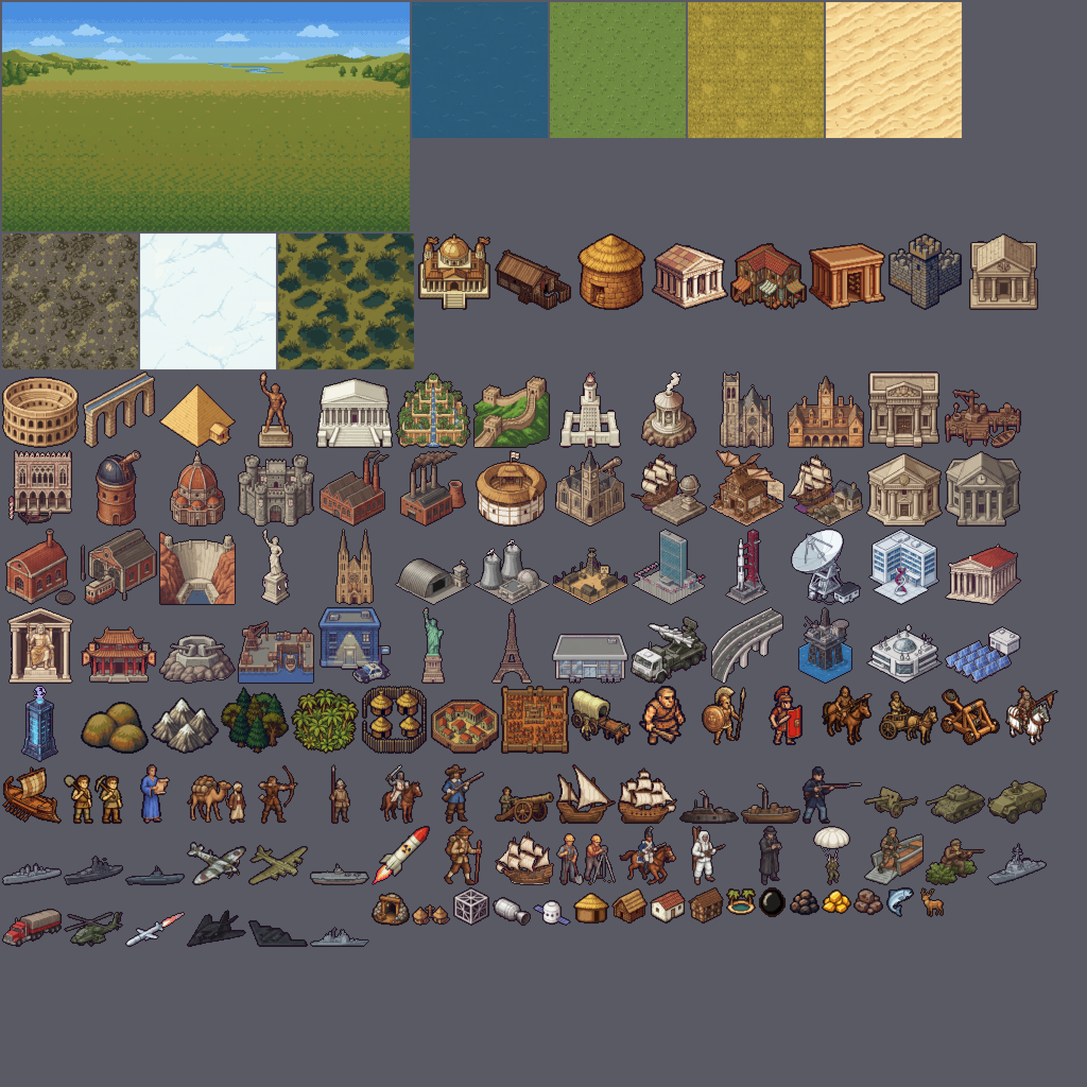
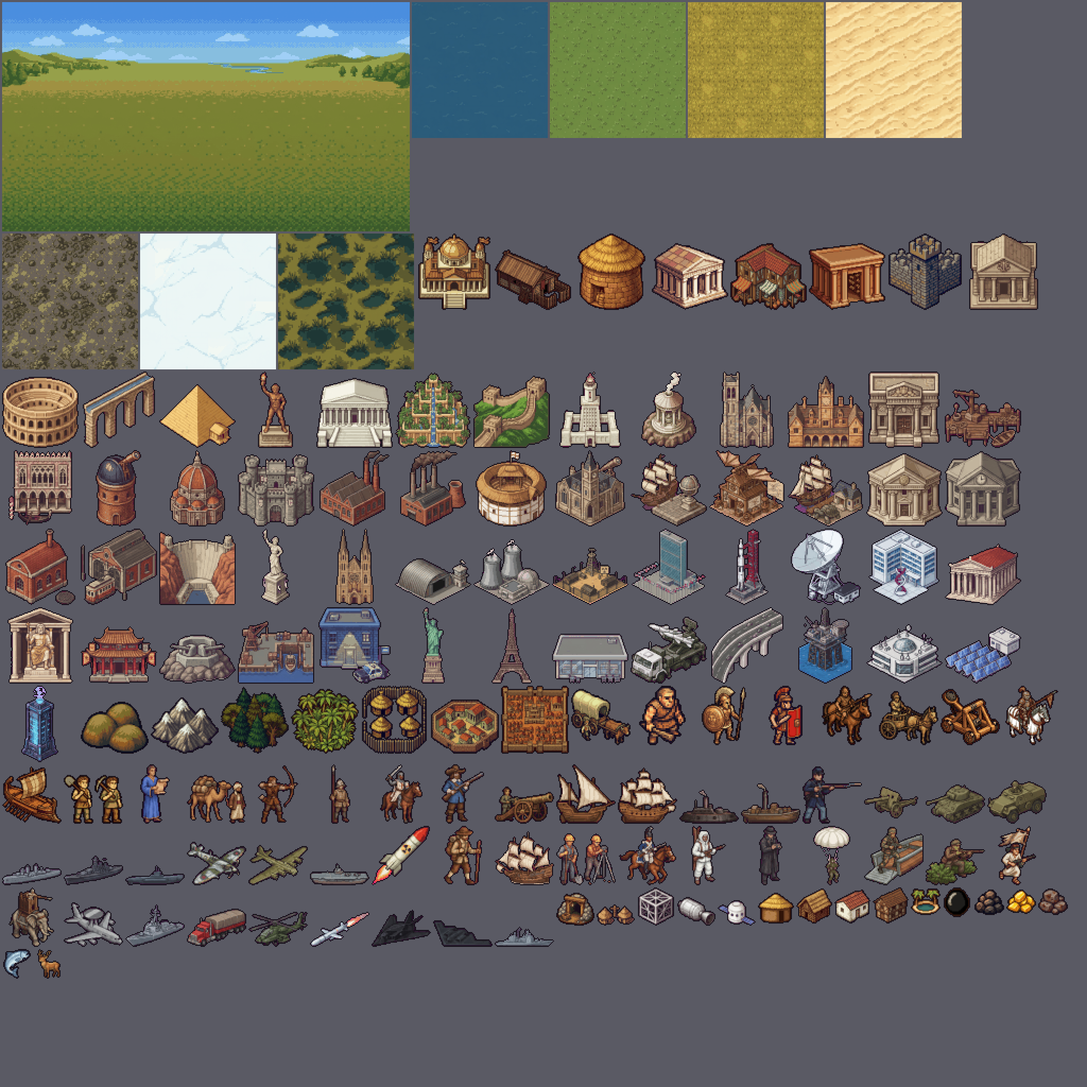
Етап 9: Фундаменталізм і Фанатики (Civ II)
Новий устрій: невдоволених нема, десятина з храму, колізею й собору,
наука вдвічі менша. Фанатики будуються лише за ним і не потребують
утримання. Спрайти Фанатиків, а наперед Слонів і AWACS (1 запит
Flash-Lite, $0.034). 12 світів: космос до 2100 в 9 з 12, загиблих 0.

Changed region(s): [[0.0, 0.75, 1.0, 0.9062]]

diff --git a/src/core/constants.ts b/src/core/constants.ts
@@ -286,6 +286,11 @@ export const UNIT_CONFIGS: Record<UnitTypeKey, UnitConfig> = {
     allTerrainAsRoad: true,
     prereqTech: 'guerrilla_warfare', descriptionUa: 'Будь-який рельєф — як дорога. Коли ворог бере ваше місто, довкола нього самі з\'являються партизани.',
   },
+  [UnitTypeKey.Fanatics]: {
+    key: UnitTypeKey.Fanatics, name: 'Fanatics', nameUa: 'Фанатики', attack: 4, defense: 4, moves: 1, cost: 20, domain: 'land',
+    requiresGovernment: 'fundamentalism',
+    prereqTech: 'fundamentalism', descriptionUa: 'Лише за Фундаменталізму: дешеві й без утримання.',
+  },
   [UnitTypeKey.Destroyer]: {
     key: UnitTypeKey.Destroyer, name: 'Destroyer', nameUa: 'Есмінець', attack: 4, defense: 4, moves: 8, cost: 60, domain: 'sea', vision: 3,
     prereqTech: 'combustion', descriptionUa: 'Найшвидший корабель: 8 клітинок за хід, бачить на 3 клітинки.',
@@ -670,6 +675,7 @@ export const TECH_TREE: Record<string, Tech> = {
   industrialization: { id: 'industrialization', nameUa: 'Індустріалізація', era: 3, prereqs: ['railroad', 'banking'], descriptionUa: 'Фабрики, димарі — і смог над містами.' },
   electricity: { id: 'electricity', nameUa: 'Електрика', era: 3, prereqs: ['metallurgy', 'magnetism'], descriptionUa: 'Струм у дротах.' },
   leadership: { id: 'leadership', nameUa: 'Лідерство', era: 3, prereqs: ['chivalry', 'gunpowder'], descriptionUa: 'Офіцери ведуть у бій кінноту з мушкетами.' },
+  fundamentalism: { id: 'fundamentalism', nameUa: 'Фундаменталізм', era: 4, prereqs: ['monotheism', 'conscription'], descriptionUa: 'Віра як закон: покора замість свобод.' },
   conscription: { id: 'conscription', nameUa: 'Загальний призов', era: 3, prereqs: ['democracy', 'metallurgy'], descriptionUa: 'Армія з громадян.' },
   // Сучасність I: війни XX століття
   tactics: { id: 'tactics', nameUa: 'Тактика', era: 4, prereqs: ['conscription', 'leadership'], descriptionUa: 'Маневр і рельєф як зброя: гірська піхота.' },
@@ -741,6 +747,11 @@ export const GOVERNMENTS: Record<GovernmentKey, GovernmentConfig> = {
   communism: {
     key: 'communism', nameUa: 'Комунізм', prereqTech: 'communism', maxRate: 8, corruptionPerTile: 0, flatCorruption: 0.1, tilePenalty: false, tradeBonus: false, martialLaw: 3, freeUnits: 3, settlerFood: 1,
     descriptionUa: 'Корупція однакова в усіх містах (10%), хоч як далеко від столиці. Військові в місті заспокоюють до 3 невдоволених. Ставки до 80%.',
+  },
+  fundamentalism: {
+    key: 'fundamentalism', nameUa: 'Фундаменталізм', prereqTech: 'fundamentalism', maxRate: 8, corruptionPerTile: 0.02, tilePenalty: false, tradeBonus: false, martialLaw: 0, freeUnits: 3, settlerFood: 1,
+    noUnhappy: true, scienceFactor: 0.5, tithes: true,
+    descriptionUa: 'Невдоволених нема зовсім. Храм, колізей і собор замість спокою дають золото (десятина). Наука вдвічі менша. Лише за цього устрою — Фанатики без утримання. Ставки до 80%.',
   },
   democracy: {
     key: 'democracy', nameUa: 'Демократія', prereqTech: 'democracy', maxRate: 9, corruptionPerTile: 0, tilePenalty: false, tradeBonus: true, martialLaw: 0, freeUnits: 0, settlerFood: 2, abroadUnhappy: 2,

diff --git a/src/core/ai.ts b/src/core/ai.ts
@@ -25,7 +25,7 @@ const RESEARCH_ORDER = [
   'atomic_theory', 'flight', 'nuclear_fission', 'nuclear_power', 'radio', 'advanced_flight', 'rocketry',
   'computers', 'space_flight', 'robotics', 'plastics', 'superconductor',
   // Гірська піхота й шпигуни — після космічних технологій: кожна зайва технологія дорожчає наступні, і космос не встигав до 2100
-  'tactics', 'espionage', 'refrigeration', 'miniaturization', 'combined_arms', 'amphibious_warfare', 'guerrilla_warfare', 'genetic_engineering', 'environmentalism', 'stealth',
+  'tactics', 'espionage', 'refrigeration', 'miniaturization', 'combined_arms', 'amphibious_warfare', 'guerrilla_warfare', 'genetic_engineering', 'environmentalism', 'stealth', 'fundamentalism',
 ];
 
 /** Корабель, який AI вважає готовим до старту: 3 двигуни, 3 модулі, 6 каркасів (політ 14 р., успіх 100%). */
@@ -125,7 +125,7 @@ export class AiController {
   private chooseGovernment(player: Player): void {
     if (player.government === 'anarchy') return;
     const warlike = (player.hostileFromTurn ?? Infinity) <= 60;
-    const wanted: GovernmentKey[] = warlike ? ['communism', 'monarchy'] : ['democracy', 'republic', 'monarchy'];
+    const wanted: GovernmentKey[] = warlike ? ['fundamentalism', 'communism', 'monarchy'] : ['democracy', 'republic', 'monarchy'];
     const target = wanted.find((g) => g === player.government || this.world.canAdopt(player.id, g));
     if (target && target !== player.government) this.world.startRevolution(player.id, target);
   }
@@ -382,6 +382,7 @@ export class AiController {
   private bestUnit(player: Player, by: 'attack' | 'defense'): UnitTypeKey {
     const units = Object.values(UNIT_CONFIGS).filter(
       (u) => u.domain === 'land' && u.attack > 0 && (!u.prereqTech || player.knownTechs.includes(u.prereqTech))
+        && (!u.requiresGovernment || u.requiresGovernment === player.government)
     );
     const pool = units.filter((u) => (by === 'attack' ? u.attack > u.defense : u.defense >= u.attack));
     const list = pool.length ? pool : units;

diff --git a/src/core/types.ts b/src/core/types.ts
@@ -98,6 +98,7 @@ export enum UnitTypeKey {
   Paratroopers = 'paratroopers',
   Marines = 'marines',
   Partisans = 'partisans',
+  Fanatics = 'fanatics',
   Destroyer = 'destroyer',
   Freight = 'freight',
   Helicopter = 'helicopter',
@@ -125,6 +126,8 @@ export interface UnitConfig {
   fuel?: number;
   /** Будь-який рельєф — як дорога (1/3 руху) */
   allTerrainAsRoad?: boolean;
+  /** Будується лише за цього устрою і тоді ж не потребує утримання (Фанатики) */
+  requiresGovernment?: GovernmentKey;
   /** Радіус огляду (типово 2) */
   vision?: number;
   /** Десант: зі свого міста з повним рухом — стрибок на клітинку за стільки клітинок */
@@ -281,7 +284,7 @@ export interface GameOver {
 }
 
 /** Державний устрій (Civ 1). Анархія — перехідний стан під час революції. */
-export type GovernmentKey = 'despotism' | 'monarchy' | 'republic' | 'democracy' | 'communism' | 'anarchy';
+export type GovernmentKey = 'despotism' | 'monarchy' | 'republic' | 'democracy' | 'communism' | 'fundamentalism' | 'anarchy';
 
 export interface GovernmentConfig {
   key: GovernmentKey;
@@ -305,6 +308,12 @@ export interface GovernmentConfig {
   settlerFood: number;
   /** Скільки невдоволених дає кожен військовий юніт за кордоном (Республіка 1, Демократія 2) */
   abroadUnhappy?: number;
+  /** Фундаменталізм (Civ II): невдоволених нема зовсім */
+  noUnhappy?: boolean;
+  /** Множник науки міст (Фундаменталізм — половина) */
+  scienceFactor?: number;
+  /** Десятина: храм, колізей і собор дають золото, скільки заспокоювали б */
+  tithes?: boolean;
   descriptionUa: string;
 }
 

diff --git a/src/core/city.ts b/src/core/city.ts
@@ -157,7 +157,7 @@ export class CityLogic {
     // Лабораторія (чи Інтернет у місті з університетом) — ще +50%
     if (has(BuildingTypeKey.University) && (has(BuildingTypeKey.ResearchLab) || env.ownerWonders.has(BuildingTypeKey.Internet))) sciBonus += 0.5;
     if (env.ownerWonders.has(BuildingTypeKey.Seti)) sciBonus += 0.5;
-    science = Math.floor(science * sciBonus);
+    science = Math.floor(science * sciBonus * (gov.scienceFactor ?? 1));
 
     // Щастя: серед працюючих перші 4 задоволені, решта невдоволені (артисти не бунтують)
     const citizens = city.size - entertainers;
@@ -175,8 +175,12 @@ export class CityLogic {
     // Жіноче виборче право — поліція: до 2 за будь-якого устрою
     const police = env.ownerWonders.has(BuildingTypeKey.WomensSuffrage) || has(BuildingTypeKey.PoliceStation) ? 2 : 0;
     calm += Math.min(env.garrison, Math.max(GOVERNMENTS[env.government].martialLaw, police));
-    // Театр Шекспіра: у місті немає невдоволених
-    if (has(BuildingTypeKey.Shakespeare)) calm += unhappy;
+    // Театр Шекспіра: у місті немає невдоволених; Фундаменталізм — так у кожному місті
+    if (has(BuildingTypeKey.Shakespeare) || gov.noUnhappy) calm += unhappy;
+    // Десятина: споруди віри й видовищ, яким нема кого заспокоювати, наповнюють скарбницю
+    if (gov.tithes) {
+      gold += (has(BuildingTypeKey.Temple) ? 2 : 0) + (has(BuildingTypeKey.Colosseum) ? 3 : 0) + (has(BuildingTypeKey.Cathedral) ? 3 : 0);
+    }
     const calmed = Math.min(unhappy, calm);
     unhappy -= calmed;
     content += calmed;

diff --git a/src/ui/city-dialog.ts b/src/ui/city-dialog.ts
@@ -61,6 +61,7 @@ export class CityDialog {
     const units = Object.values(UNIT_CONFIGS)
       .filter((u) => hasTech(u.prereqTech) && (u.domain !== 'sea' || coastal))
       .filter((u) => !u.requiresWonder || this.world.isWonderBuilt(u.requiresWonder))
+      .filter((u) => !u.requiresGovernment || u.requiresGovernment === this.world.players[city.playerId].government)
       // Застарілі ховаємо, але поточне виробництво лишаємо видимим
       .filter((u) => !isObsoleteUnit(u.key, known) || city.currentProduction.key === u.key)
       .map((u) => ({ isBuilding: false, key: u.key as string, name: u.nameUa, cost: u.cost, description: u.descriptionUa }));

diff --git a/src/core/world.ts b/src/core/world.ts
@@ -440,7 +440,9 @@ export class World {
     let abroad = 0;
     for (const u of this.units.values()) {
       if (u.homeCityId !== cityId) continue;
-      units++;
+      // Фанатики за Фундаменталізму — без утримання
+      const gov = UNIT_CONFIGS[u.type].requiresGovernment;
+      if (!(gov && this.players[u.playerId].government === gov)) units++;
       if (u.type === UnitTypeKey.Settlers) settlers++;
       // За кордоном (Civ 1): військовий поза своїми містами й далі за 3 клітинки від рідного
       const at = this.tiles[u.y][u.x].cityId;

diff --git a/src/ui/government-dialog.ts b/src/ui/government-dialog.ts
@@ -5,7 +5,7 @@ import { World } from '../core/world';
 import { GovernmentKey, BuildingTypeKey } from '../core/types';
 import { GOVERNMENTS, TECH_TREE } from '../core/constants';
 
-const CHOICES: GovernmentKey[] = ['despotism', 'monarchy', 'communism', 'republic', 'democracy'];
+const CHOICES: GovernmentKey[] = ['despotism', 'monarchy', 'communism', 'fundamentalism', 'republic', 'democracy'];
 
 export class GovernmentDialog {
   private overlay: HTMLElement;

diff --git a/docs/ai/ROADMAP.md b/docs/ai/ROADMAP.md
@@ -213,7 +213,7 @@
 Етап 8 закрив юніти, споруди й чудеса Civ II. Тут — механіки й решта вмісту, за тим самим порядком (дані, правила, AI, UI, тест, симуляції).
 - [x] **Торгові маршрути** (Civ 1): караван чи вантажівка в чужому місті (без війни) або в своєму за 10+ клітинок від рідного — разово золото й наука (`(відстань+10)×(торгівля обох)/24`), назавжди обом містам `(торгівля обох+4)/8` торгівлі; між своїми — навпіл. До 3 маршрутів, слабший замінюється кращим; з ворогом маршрут стоїть. Кнопка «🐪 Маршрут [T]», чуже місто — просто зайти; маршрути в екрані міста. AI везе каравани, коли чуда нема, і тримає їх до третини від кількості міст. 12 світів: космос до 2100 в 10 з 12 (без маршрутів на тих самих зернах — 8 з 12), загиблих 0.
 - [x] **Капіталізація** (Civ II Coinage, техн. Корпорація): «💰 Капіталізація» в списку виробництва — щити щоходу йдуть у золото, запас щитів не чіпається, купити не можна. AI бере її, коли будувати вже нічого (замість зайвих юнітів на утриманні): на кінець гри — 0–28 міст із ~50. 12 світів: космос до 2100 в 9 з 12, загиблих 0.
-- [ ] **Фундаменталізм** (Civ II): устрій без невдоволених, наука −50%, Фанатики (дешеві, без утримання).
+- [x] **Фундаменталізм** (Civ II, нова техн.: Монотеїзм + Загальний призов): невдоволених нема, храм/колізей/собор дають десятину золотом (2/3/3), наука вдвічі менша, ставки до 80%. **Фанатики** (А4 З4, 20 щитів) — лише за цього устрою й без утримання. Войовничі AI обирають його першим, але техн. стоїть після космічних (інакше гонка не встигає) — тож AI доходить до нього рідко (3 з 12 світів), Фанатиків не будує: Мотопіхота й Танки на той час сильніші. 12 світів: космос до 2100 в 9 з 12, загиблих 0.
 - [ ] **Слони й AWACS**: Слони (Політеїзм, А4 З1 Р1) — ранній удар; AWACS — огляд 8 клітинок з неба.
 - [ ] **Поради радника для пізньої гри** (зараз лише до 120-го ходу): космос, забруднення, маршрути, ООН.
 - [ ] **Зони контролю** (ZOC, Civ 1): не можна йти з клітинки поруч із ворогом на іншу клітинку поруч із ворогом.

diff --git a/docs/ai/NIGHT_LOG.md b/docs/ai/NIGHT_LOG.md
@@ -189,7 +189,7 @@ Gemini: 2 запити × $0.034 = $0.068 (спрайти й для наступ
 Далі (ідеї для Етапу 9, коли Олексій погодить): підказки радника для пізньої гри (зараз лише до 120-го ходу), ZOC, корисніше заняття каравану/вантажівці у фінальній фазі (торгові маршрути як у Civ 1), живий прогін Етапу 8 у браузері.
 
 ## 2026-10-22 20:45–21:30 — Етап 9: торгові маршрути, Капіталізація
-Ліміти: 5 год — 48% → ~75%, тиждень — 66% → ~70%. Gemini: 0 запитів (нових спрайтів не треба). Підсумок: **$0.14** з $3.
+Ліміти: 5 год — 48% → 66%, тиждень — 66% → 69%. Gemini: 0 запитів. Підсумок: **$0.14** з $3.
 
 Етап 8 було закрито, тож додав у ROADMAP «Етап 9 — Розширення II»: механіки Civ 1 / Civ II, яких ще бракує (маршрути, Капіталізація, Фундаменталізм і Фанатики, Слони й AWACS, поради радника для пізньої гри, ZOC).
 
@@ -201,3 +201,14 @@ Gemini: 2 запити × $0.034 = $0.068 (спрайти й для наступ
 Не перевірено в браузері (preview `civ-dev` відхилено): кнопка [T], рядок маршрутів і «🛡→💰» в екрані міста.
 
 Далі: Фундаменталізм + Фанатики, потім Слони й AWACS (на них потрібна одна сітка спрайтів), поради радника для пізньої гри, ZOC.
+
+### 21:30–21:55 — Етап 9: Фундаменталізм і Фанатики
+Ліміти: 5 год — 66% → 72%, тиждень — 69% → 70%. Gemini: 1 запит × $0.034 (Фанатики, а наперед Слони й AWACS). Підсумок: **$0.17** з $3.
+Сітка вийшла одним рядком із трьох спрайтів, а не 3×3; process-sprites нарізав чисто, ліній і підписів нема.
+
+- **Фундаменталізм** (устрій, нова техн. з Монотеїзму й Загального призову): невдоволених нема, десятина з храму/колізею/собору, наука ×0.5. **Фанатики** — лише за ним, без утримання (`UnitConfig.requiresGovernment`).
+- Тест правил (7 пунктів), 12 світів: космос до 2100 в 9 з 12, загиблих 0. AI доходить до Фундаменталізму в 3 світах з 12 і лише під кінець; Фанатиків не будує (Мотопіхота сильніша) — це вибір для людини.
+
+Не перевірено в браузері: Фундаменталізм у вікні революції, Фанатики в списку виробництва.
+
+Далі: Слони й AWACS (спрайти вже є), поради радника для пізньої гри, ZOC.

diff --git a/docs/ai/PROJECT_MAP.md b/docs/ai/PROJECT_MAP.md
@@ -61,6 +61,7 @@
   Нові технології Етапу 8 стоять у `RESEARCH_ORDER` після космічних: кожна зайва технологія дорожчає наступні, і AI не встигав до 2100.
 - Перетворення рельєфу інженерами (`TRANSFORM` у `terraform.ts`, робота `transform`, клавіша O): `World.terrainChanges` → `MapRenderer.rebakeTerrain` перепікає шматки 16×16 (`TerrainBaker.rebake`). Без рендерера (симуляції) список лише росте — не страшно.
 - Торгові маршрути (Етап 9): `City.tradeRoutes` (`{cityId, trade}`, торгівля порахована при заснуванні), `World.establishTradeRoute`/`tradeRouteProblem`/`tradeRouteOffer`; у видобуток — `CityEnv.routeTrade` (`World.routeTrade`: зниклі міста й війна не рахуються). Караван у чужому місті — гілка в `moveUnit`; AI — `routeTarget` в `ai.ts`.
+- Капіталізація — «споруда» `Coinage` з `coinage: true` (ніколи не добудовується, `processTurn` повертає `coinage` → золото). Фундаменталізм: `GovernmentConfig.noUnhappy/scienceFactor/tithes`; Фанатики — `UnitConfig.requiresGovernment` (лише за ним будуються й тоді не на утриманні, `supportOf`).
[1 lines of base64/hex data omitted]
 - Ідентифікатори спрайтів: `t_` рельєф, `o_` накладки, `u_<UnitTypeKey>`, `c_tier1..3`, `r_` ресурси, `i_` покращення, `b_<BuildingTypeKey>`, `w_<BuildingTypeKey>` (чудеса), `h_` житла, `bd_` фон панорами.
 
